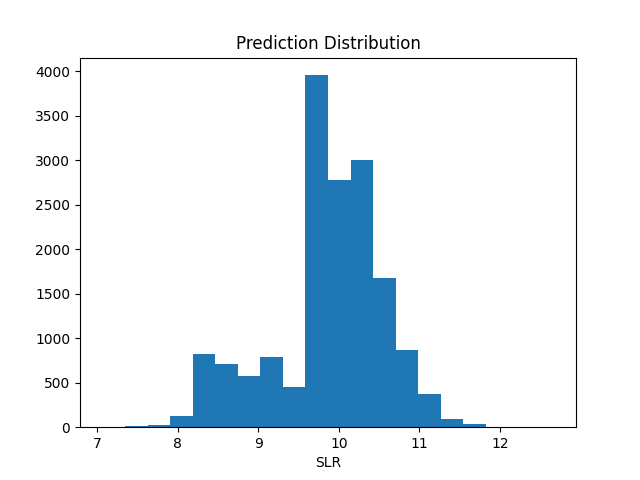
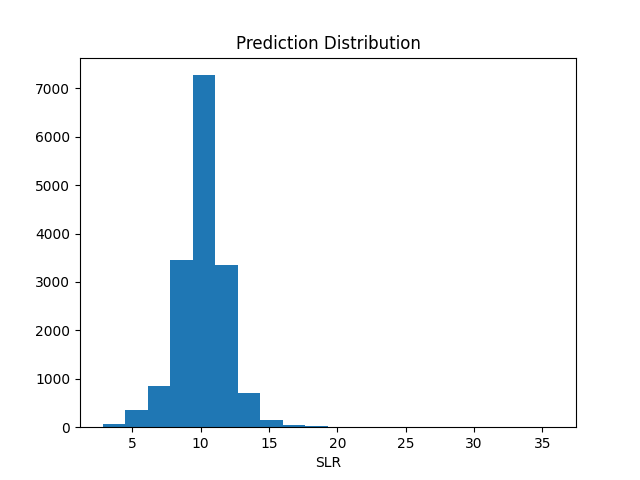
good architecture

diff --git a/train_model.py b/train_model.py
@@ -34,44 +34,28 @@ opt = keras.optimizers.Adam()
 # define the keras model
 model = Sequential()
 model.add(Normalization())
-model.add(Dense(1000, 
+model.add(Dense(200, 
                 input_shape=(X.shape[1],),  
                 activation=LeakyReLU(alpha = .1)))
-model.add(Dense(1000,  
+model.add(Dense(100,  
+                activation=LeakyReLU(alpha = .1)))
+model.add(Dense(100,  
+                activation=LeakyReLU(alpha = .1)))
+model.add(Dense(100,  
+                activation=LeakyReLU(alpha = .1)))
+model.add(Dense(100,  
+                activation=LeakyReLU(alpha = .1)))
+model.add(Dense(20,  
+                activation=LeakyReLU(alpha = .1)))
+model.add(Dense(5,  
                 activation=LeakyReLU(alpha = .1)))
 
-
-
-model.add(Dense(1000, activation=LeakyReLU(alpha = .1)))
-model.add(Dense(1000, activation=LeakyReLU(alpha = .1)))
-model.add(Dense(1000, activation=LeakyReLU(alpha = .1)))
-model.add(Dense(1000, activation=LeakyReLU(alpha = .1)))
-model.add(Dense(1000, activation=LeakyReLU(alpha = .1)))
-model.add(Dense(1000, activation=LeakyReLU(alpha = .1)))
-model.add(Dense(1000, activation=LeakyReLU(alpha = .1)))
-model.add(Dense(1000, activation=LeakyReLU(alpha = .1)))
-model.add(Dense(1000, activation=LeakyReLU(alpha = .1)))
-model.add(Dense(1000, activation=LeakyReLU(alpha = .1)))
-model.add(Dense(1000, activation=LeakyReLU(alpha = .1)))
-model.add(Dense(1000, activation=LeakyReLU(alpha = .1)))
-model.add(Dense(1000, activation=LeakyReLU(alpha = .1)))
-model.add(Dense(1000, activation=LeakyReLU(alpha = .1)))
-model.add(Dense(1000, activation=LeakyReLU(alpha = .1)))
-model.add(Dense(1000, activation=LeakyReLU(alpha = .1)))
-model.add(Dense(1000, activation=LeakyReLU(alpha = .1)))
-model.add(Dense(1000, activation=LeakyReLU(alpha = .1)))
-model.add(Dense(1000, activation=LeakyReLU(alpha = .1)))
-model.add(Dense(1000, activation=LeakyReLU(alpha = .1)))
-model.add(Dense(1000, activation=LeakyReLU(alpha = .1)))
-model.add(Dense(1000, activation=LeakyReLU(alpha = .1)))
-model.add(Dense(1000, activation=LeakyReLU(alpha = .1)))
-model.add(Dense(1000, activation=LeakyReLU(alpha = .1)))
 model.add(Dense(1, activation='linear'))
 
 # compile the keras model
 model.compile(loss='huber', optimizer=opt, metrics=['mean_squared_error'])
 # fit the keras model on the dataset
-model.fit(X, y, epochs=50, batch_size=100, validation_split = .1)
+model.fit(X, y, epochs=5000, batch_size=100, validation_split = .1)
 # evaluate the keras model
 na, accuracy = model.evaluate(X, y)
 
